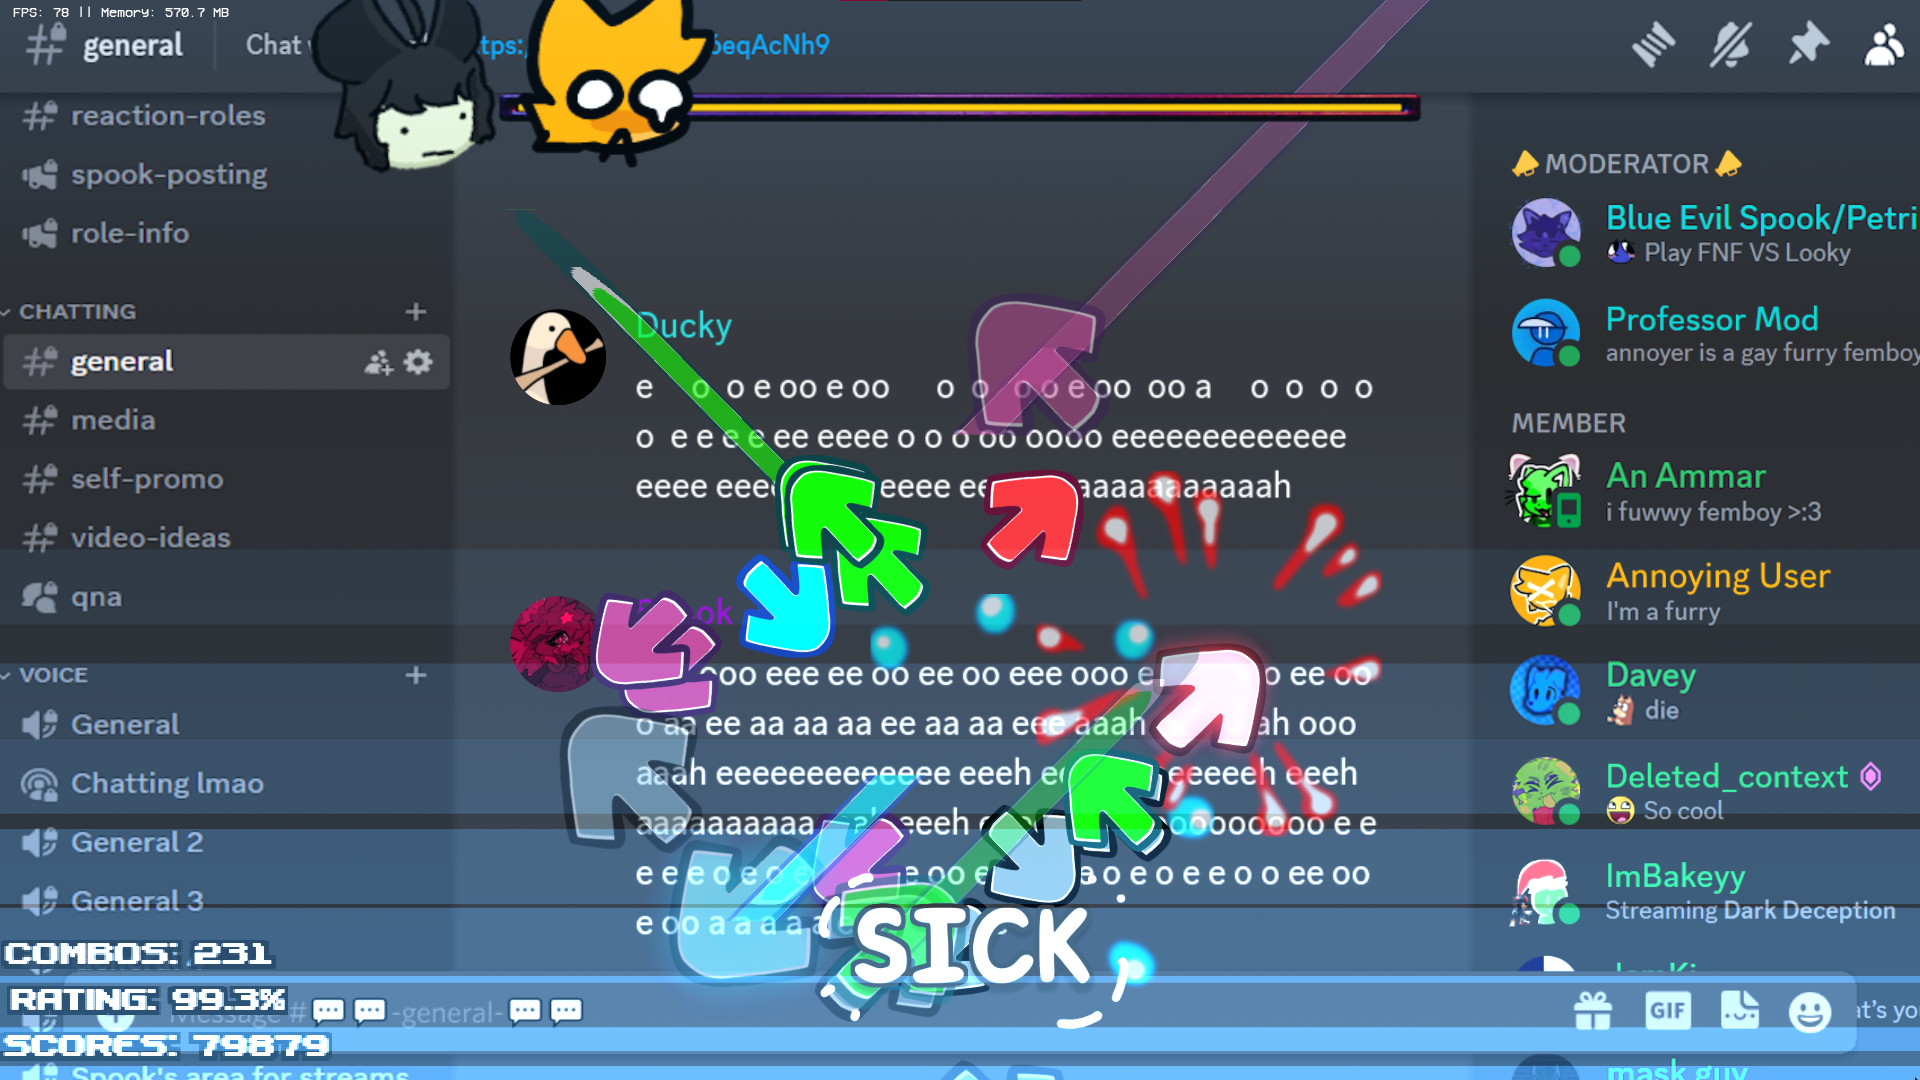
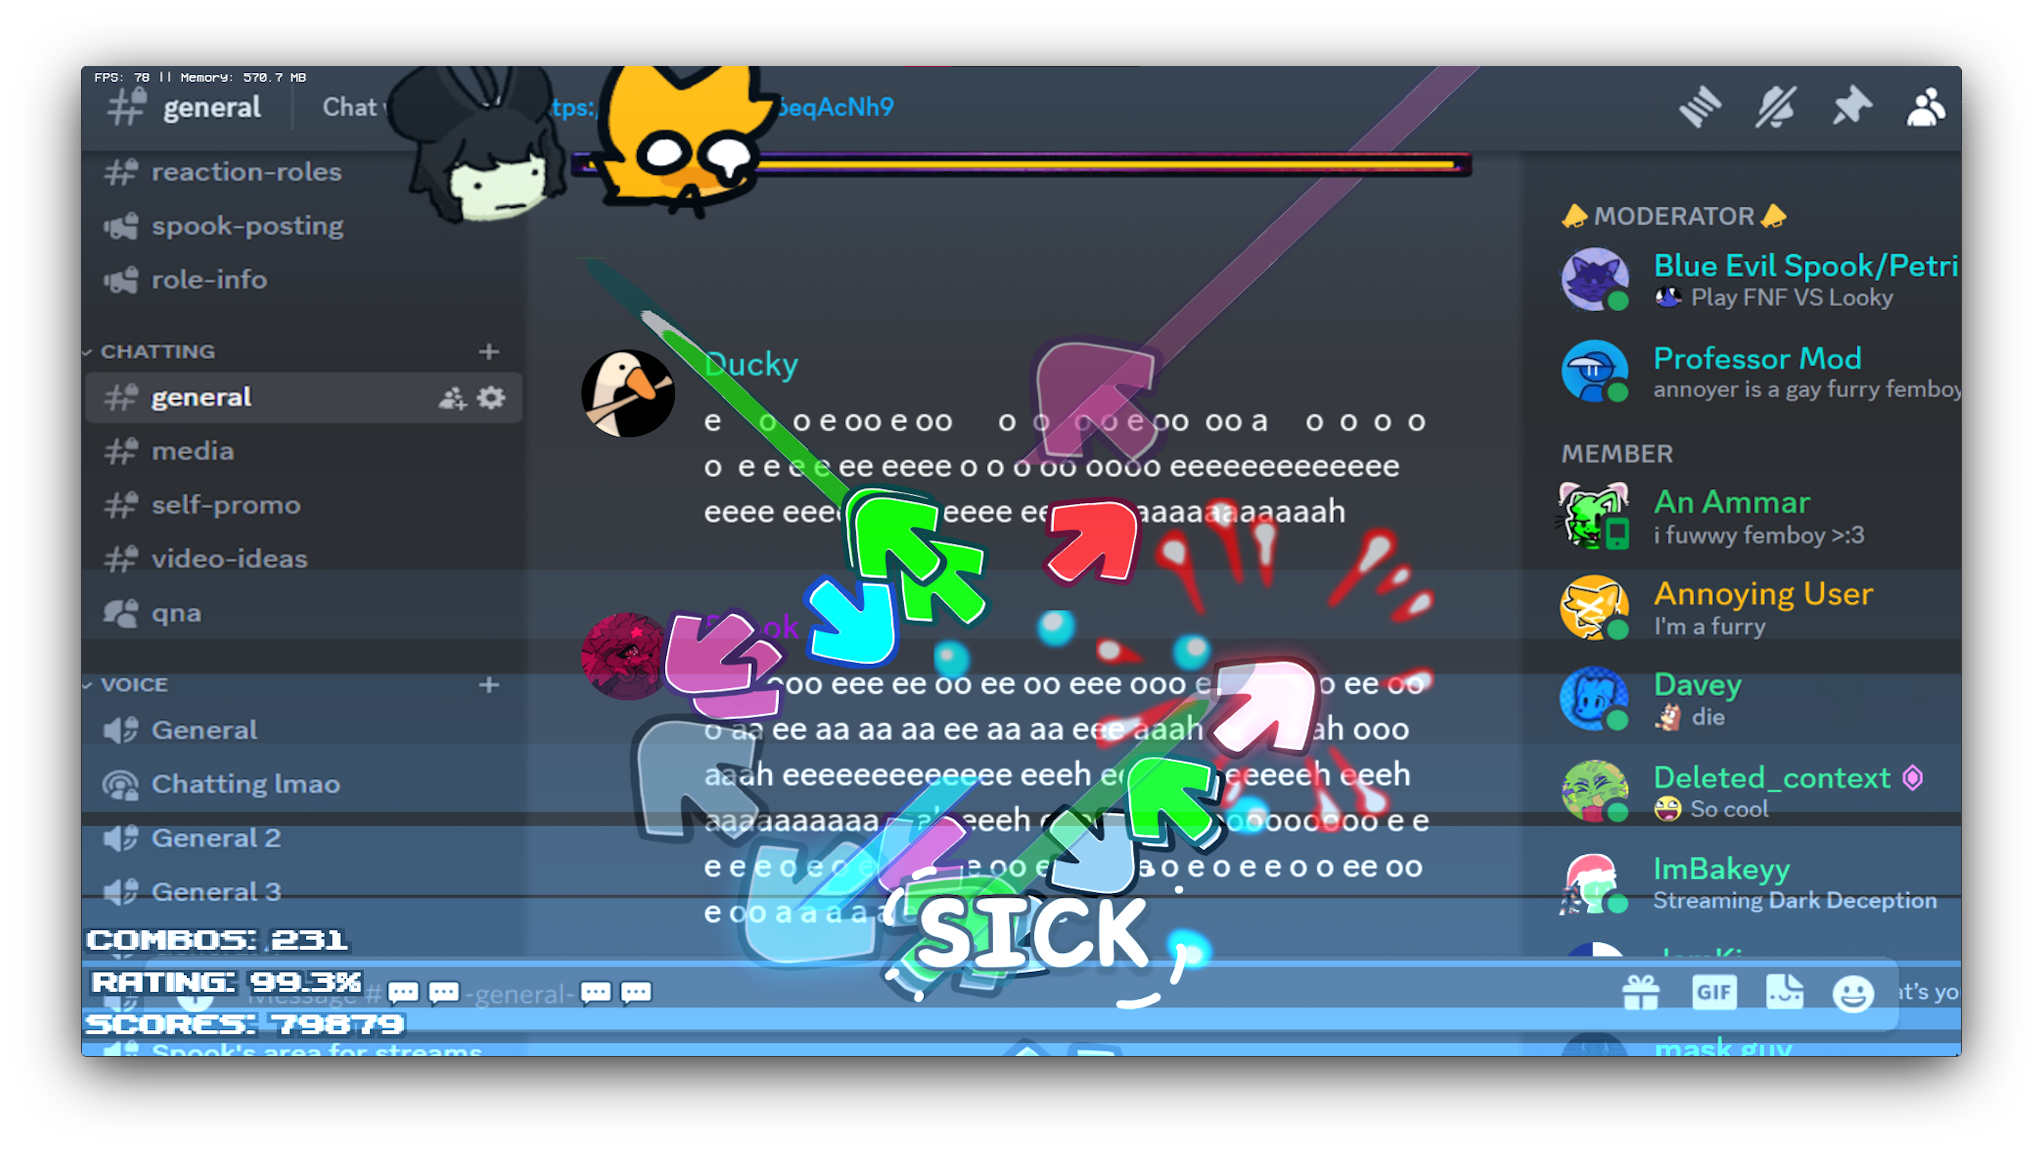
Portfolio update 5

diff --git a/src/routes/portfolio/+page.svelte b/src/routes/portfolio/+page.svelte
@@ -86,17 +86,17 @@
 					<img
 						src="/assets/misc/portfolio/spookscreativity/screen1.png"
 						alt="Spook's Creativity"
-						width="450"
+						width="600"
 					/>
 					<img
 						src="/assets/misc/portfolio/spookscreativity/screen2.png"
 						alt="Spook's Creativity"
-						width="450"
+						width="600"
 					/>
 					<img
 						src="/assets/misc/portfolio/spookscreativity/screen3.png"
 						alt="Spook's Creativity"
-						width="450"
+						width="600"
 					/>
 				</section>
 
